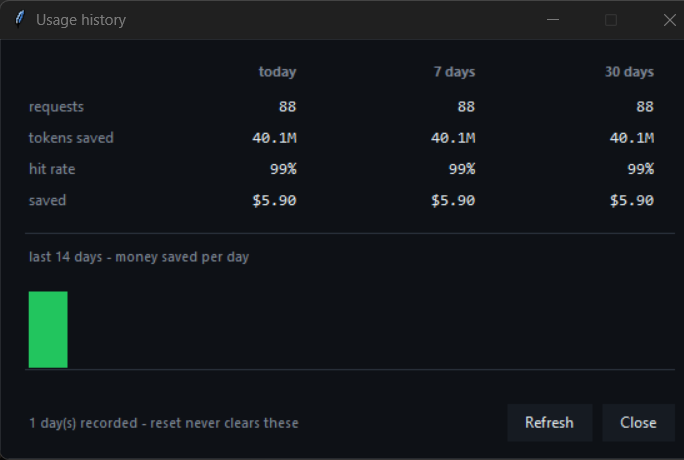
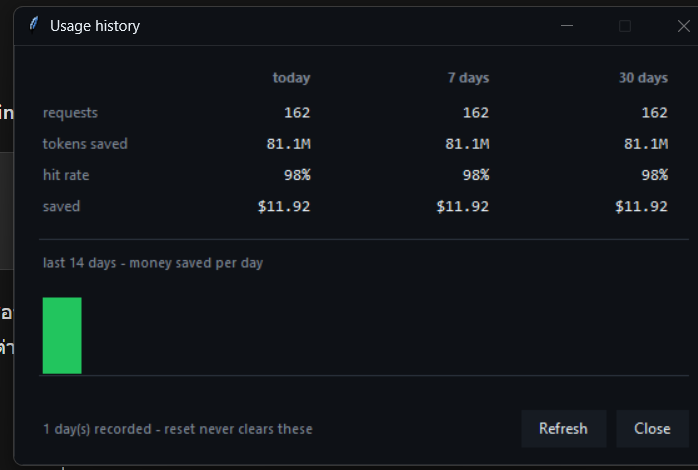
Paint the window captions the exact colour of the window body
The immersive dark caption is a fixed system grey (#2b2b2b), close enough to
black to look wrong above a #0e1116 body - which is why the card, which has no
caption at all, looked better. DWMWA_CAPTION_COLOR and DWMWA_TEXT_COLOR now set
the caption to the body colour and the text to the same off-white.

Screenshots refreshed to match.

diff --git a/tray_app.py b/tray_app.py
@@ -158,6 +158,14 @@ def dark_title_bar(root):
                     hwnd, attr, ctypes.byref(on), ctypes.sizeof(on)
                 ) == 0:
                     break
+            # Paint the caption the same near-black as the window body instead
+            # of the system's dark grey. DWM wants a COLORREF (0x00BBGGRR).
+            for attr, rgb in ((35, 0x0E1116), (36, 0xE6EDF3)):
+                ref = ((rgb & 0xFF) << 16) | (rgb & 0x00FF00) | ((rgb >> 16) & 0xFF)
+                v = ctypes.c_int(ref)
+                ctypes.windll.dwmapi.DwmSetWindowAttribute(
+                    hwnd, attr, ctypes.byref(v), ctypes.sizeof(v)
+                )
         except Exception:
             pass
 
